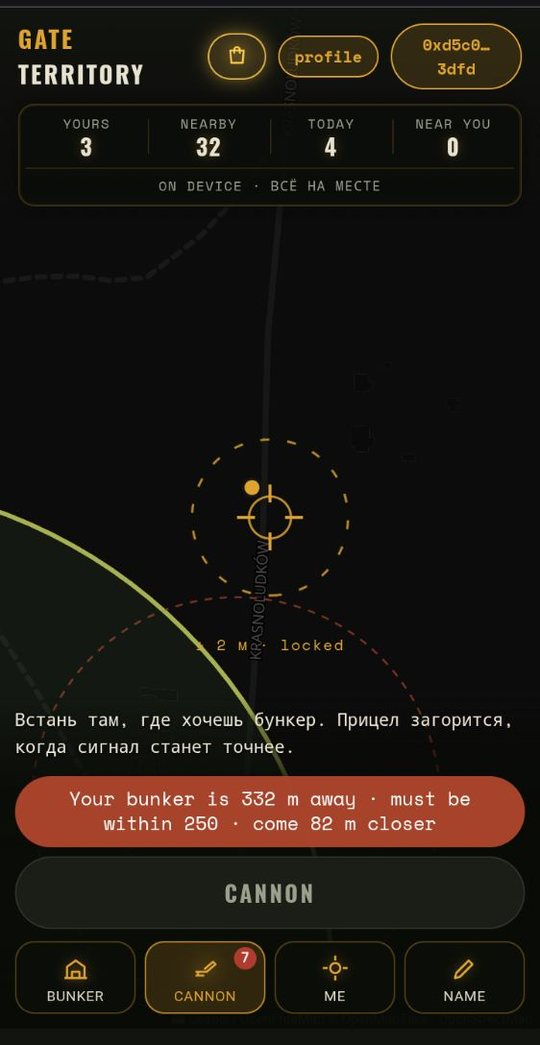
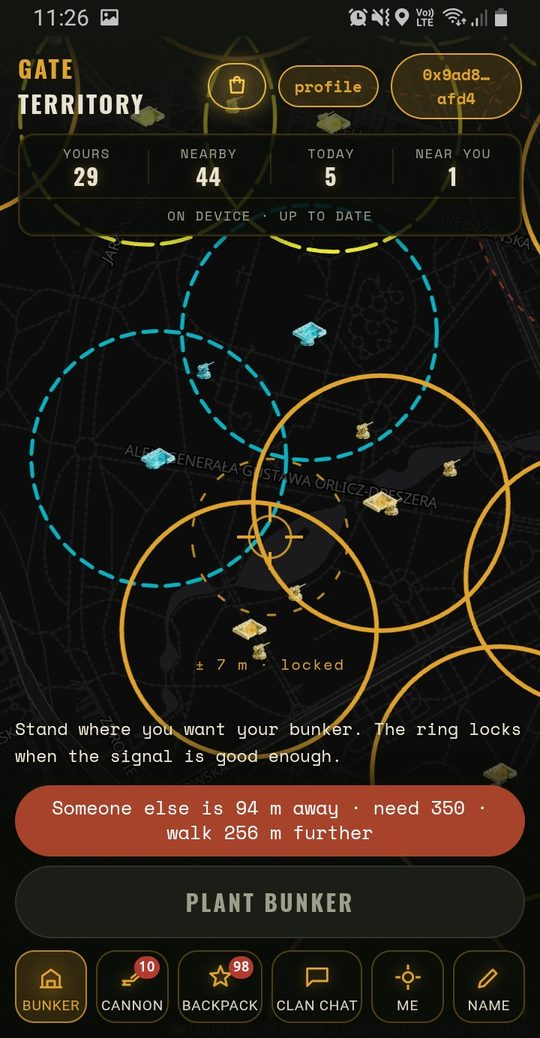
Add files via upload

diff --git a/start.html b/start.html
@@ -276,16 +276,24 @@ footer p{margin:0 0 8px;max-width:none;}
 
 <div class="shots">
   <figure>
-    <img src="shot-siege.jpg" width="540" height="1045" loading="lazy" alt="">
+    <img src="shot-siege.jpg" width="540" height="1038" loading="lazy" alt="">
     <figcaption data-t="cap1"></figcaption>
   </figure>
   <figure>
-    <img src="shot-plant.jpg" width="540" height="1045" loading="lazy" alt="">
+    <img src="shot-plant.jpg" width="540" height="1038" loading="lazy" alt="">
     <figcaption data-t="cap2"></figcaption>
   </figure>
   <figure>
-    <img src="shot-cannon.jpg" width="540" height="1045" loading="lazy" alt="">
+    <img src="shot-cannon.jpg" width="540" height="1038" loading="lazy" alt="">
     <figcaption data-t="cap3"></figcaption>
+  </figure>
+  <figure>
+    <img src="shot-city.jpg" width="540" height="1038" loading="lazy" alt="">
+    <figcaption data-t="cap4"></figcaption>
+  </figure>
+  <figure>
+    <img src="shot-shop.jpg" width="540" height="1038" loading="lazy" alt="">
+    <figcaption data-t="cap5"></figcaption>
   </figure>
 </div>
 <p class="shots-note" data-t="capNote"></p>
@@ -384,6 +392,8 @@ uk:{
  cap1:'Облога. Вийди з кола — або втратиш десять секунд.',
  cap2:'Приціл загоряється, коли супутники дали точність.',
  cap3:'Гра каже не «не можна», а скільки метрів пройти.',
+ cap4:'Десятки точок на район. Кожна — чиясь земля.',
+ cap5:'Лавка: заряди, ракети, дрони, бійці.',
  capNote:'Знімки з живої гри, Лодзь.',
  hAbout:'Про що це',
  ab0:'Карта — твоє місто. Не вигадане, а те саме, де ти ходиш на роботу.',
@@ -447,6 +457,8 @@ en:{
  cap1:'Under siege. Step out of the circle, or lose ten seconds.',
  cap2:'The ring locks once the satellites are accurate enough.',
  cap3:'It doesn’t say “no” — it says how many metres to walk.',
+ cap4:'Dozens of points across a district. Each one is somebody’s ground.',
+ cap5:'The shop: charges, rockets, drones, soldiers.',
  capNote:'Screenshots from the live game, Łódź.',
  hAbout:'What this is',
  ab0:'The map is your city. Not an invented one — the streets you walk to work.',
@@ -510,6 +522,8 @@ ru:{
  cap1:'Осада. Выйди из круга — или потеряешь десять секунд.',
  cap2:'Прицел загорается, когда спутники дали точность.',
  cap3:'Игра говорит не «нельзя», а сколько метров пройти.',
+ cap4:'Десятки точек на район. Каждая — чья-то земля.',
+ cap5:'Лавка: заряды, ракеты, дроны, бойцы.',
  capNote:'Снимки из живой игры, Лодзь.',
  hAbout:'О чём это',
  ab0:'Карта — твой город. Не выдуманный, а тот самый, где ты ходишь на работу.',
@@ -573,6 +587,8 @@ pl:{
  cap1:'Oblężenie. Wyjdź z kręgu albo stracisz dziesięć sekund.',
  cap2:'Celownik zapala się, gdy satelity dadzą dokładność.',
  cap3:'Gra nie mówi „nie można”, tylko ile metrów przejść.',
+ cap4:'Dziesiątki punktów w dzielnicy. Każdy to czyjaś ziemia.',
+ cap5:'Sklep: ładunki, rakiety, drony, żołnierze.',
  capNote:'Zrzuty z żywej gry, Łódź.',
  hAbout:'O co tu chodzi',
  ab0:'Mapa to twoje miasto. Nie wymyślone — to samo, którym chodzisz do pracy.',
@@ -636,6 +652,8 @@ de:{
  cap1:'Belagerung. Verlass den Kreis, sonst kostet es zehn Sekunden.',
  cap2:'Das Fadenkreuz rastet ein, sobald die Satelliten genau genug sind.',
  cap3:'Das Spiel sagt nicht „geht nicht“, sondern wie viele Meter noch.',
+ cap4:'Dutzende Punkte über ein Viertel. Jeder gehört jemandem.',
+ cap5:'Der Laden: Sprengladungen, Raketen, Drohnen, Soldaten.',
  capNote:'Aufnahmen aus dem laufenden Spiel, Łódź.',
  hAbout:'Worum es geht',
  ab0:'Die Karte ist deine Stadt. Keine erfundene — die, durch die du zur Arbeit gehst.',
@@ -699,6 +717,8 @@ es:{
  cap1:'Asedio. Sal del círculo o pierdes diez segundos.',
  cap2:'La mira se enciende cuando los satélites dan precisión.',
  cap3:'El juego no dice «no puedes», dice cuántos metros faltan.',
+ cap4:'Decenas de puntos por el barrio. Cada uno es tierra de alguien.',
+ cap5:'La tienda: cargas, cohetes, drones, soldados.',
  capNote:'Capturas del juego en vivo, Łódź.',
  hAbout:'De qué va',
  ab0:'El mapa es tu ciudad. No una inventada: la misma por la que vas al trabajo.',
@@ -762,6 +782,8 @@ tr:{
  cap1:'Kuşatma. Çemberden çık, yoksa on saniye kaybedersin.',
  cap2:'Uydular yeterince keskinleşince nişan kilitlenir.',
  cap3:'Oyun «olmaz» demiyor, kaç metre yürüyeceğini söylüyor.',
+ cap4:'Bir mahallede onlarca nokta. Her biri birinin toprağı.',
+ cap5:'Dükkân: patlayıcı, roket, drone, asker.',
  capNote:'Canlı oyundan görüntüler, Łódź.',
  hAbout:'Bu ne',
  ab0:'Harita senin şehrin. Uydurma değil — her gün işe yürüdüğün sokaklar.',
@@ -825,6 +847,8 @@ zh:{
  cap1:'被围攻。走出圆圈，否则损失十秒。',
  cap2:'卫星足够精确时，准星才会锁定。',
  cap3:'游戏不说“不行”，而是告诉你还差几米。',
+ cap4:'一个城区里几十个点，每个都是别人的地盘。',
+ cap5:'商店：炸药、火箭、无人机、士兵。',
  capNote:'实机截图，罗兹。',
  hAbout:'这是什么',
  ab0:'地图就是你的城市。不是虚构的，就是你每天上班走的那条路。',

diff --git a/sw.js b/sw.js
@@ -12,7 +12,7 @@
 //
 // ВАЖНО: этот номер надо поднимать при каждой выкладке. По нему
 // браузер и понимает, что появилось новое.
-const SHELL = 'ogt-shell-v69';
+const SHELL = 'ogt-shell-v70';
 const TILES = 'ogt-tiles-v1';
 const TILE_CAP = 900;                 // примерно 25-40 МБ, дальше чистим старое
 
